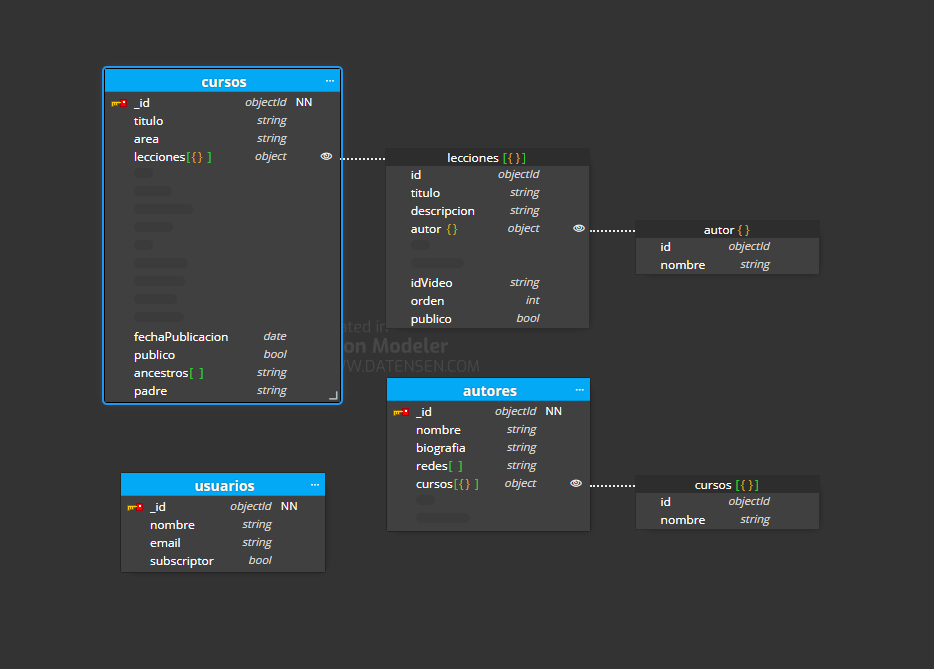
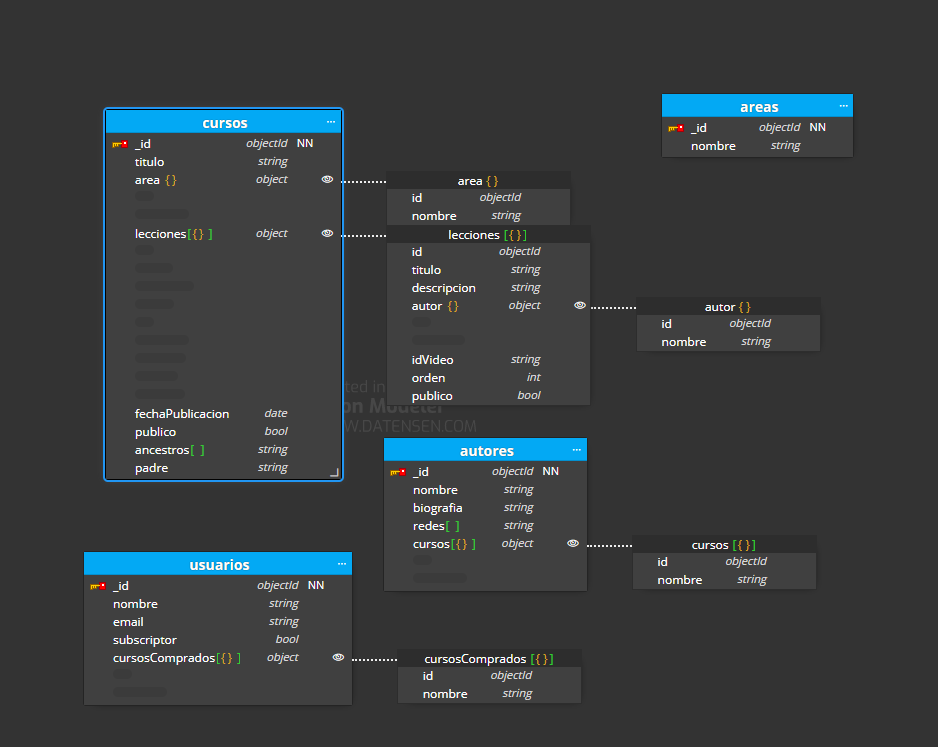
Add some changes

diff --git a/Modelado Opcional/readmeOpcional.md b/Modelado Opcional/readmeOpcional.md
@@ -1,0 +1,40 @@
+# Bootcamp Lemoncode Backend Continuo - [Documental] Modulo - 1- Modelado
+## Caso  opcional
+
+Generar un modelado que refleje los siguiente requerimientos, además de la parte básica:
+
+- Queremos mostrar los últimos cursos publicados.
+- Queremos mostrar cursos por área (devops / front End ...).
+- Queremos mostrar un curso con sus videos.
+- En un video queremos mostrar su autor.
+
+***
+**Tendremos que tener en cuenta lo siguiente:**  
+
+Tener un sólo nivel de áreas es limitado, lo suyo sería tener una estructura jerárquica, por ejemplo:
+* Front End >> React
+* Front End >> React >> Testing
+* Front End >> Angular
+* Devops >> Docker
+* Devops >> Serverless
+* Backend >> nodejs
+* Backend >> nodejs >> Express
+* Backend >> mongo
+
+Van a haber videos públicos y privados, es decir:
+* Un curso puede ser 100% público.
+* Un curso puede tener una parte inicial 100% pública, y otra sólo para subscriptores.
+* Esto implica que hayan usuarios registrados y subscripciones.
+
+
+
+El planteamiento del modelado quedaría de la siguiente manera:
+
+![](content/modeloOpcional.png)
+
+- He añadido en cursos un campo publico. Así podremos ver si el curso es publico o privado.
+- También en lecciones he añadido un campo publico, así un curso puede tener ciertas lecciones privadas.
+- También he creado la colección usuarios, donde uno de sus campos es "subscriptor" con lo que sabremos si tiene acceso a los cursos privados.
+- En la misma colección de usuarios, he añadido un array con los cursos comprados por el usuario. Así , si un día se da de baja, no se perderá los cursos que hubiese comprado.
+- En cursos he añadido tambien dos campos. Ancestros y padre para poder usar el patrón Materialized Paths. Combinando Ancestor Array y el Parent Reference.
+- Y he añadido la colección areas para en caso de cambiar en un futuro las areas, sea más facil de gestionar.
